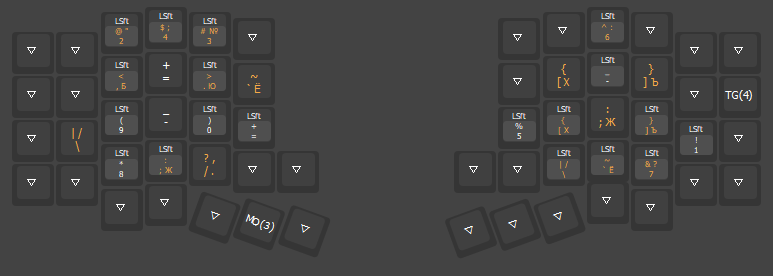
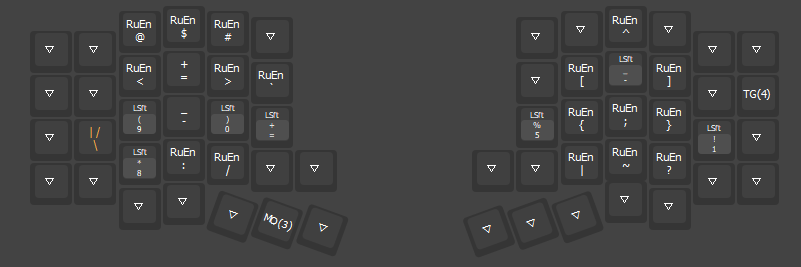
add RuEn

diff --git a/README.md b/README.md
@@ -1,4 +1,4 @@
-layout with alt+f4, toggle layer4, scroll lock and add button in game layer
+Add RuEn switch on layer1 and add RuEn symbols to layer2
 
 # Layer 0
 ![Layout0](images/layout0.png)
@@ -14,3 +14,4 @@ layout with alt+f4, toggle layer4, scroll lock and add button in game layer
 
 # Layout 4
 ![Layout4](images/layout4.png)
+
